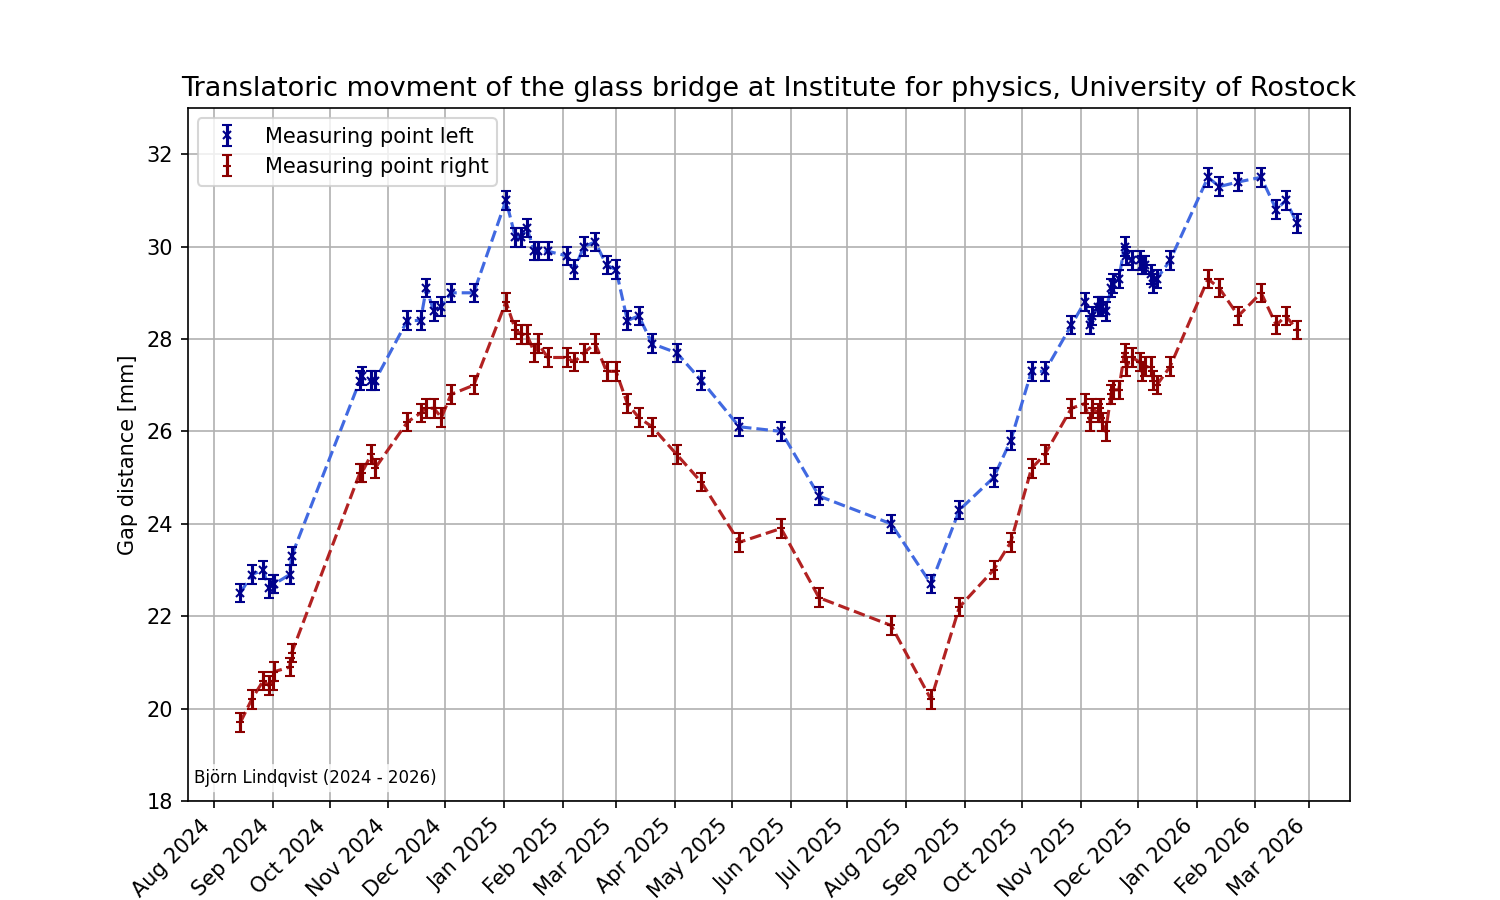
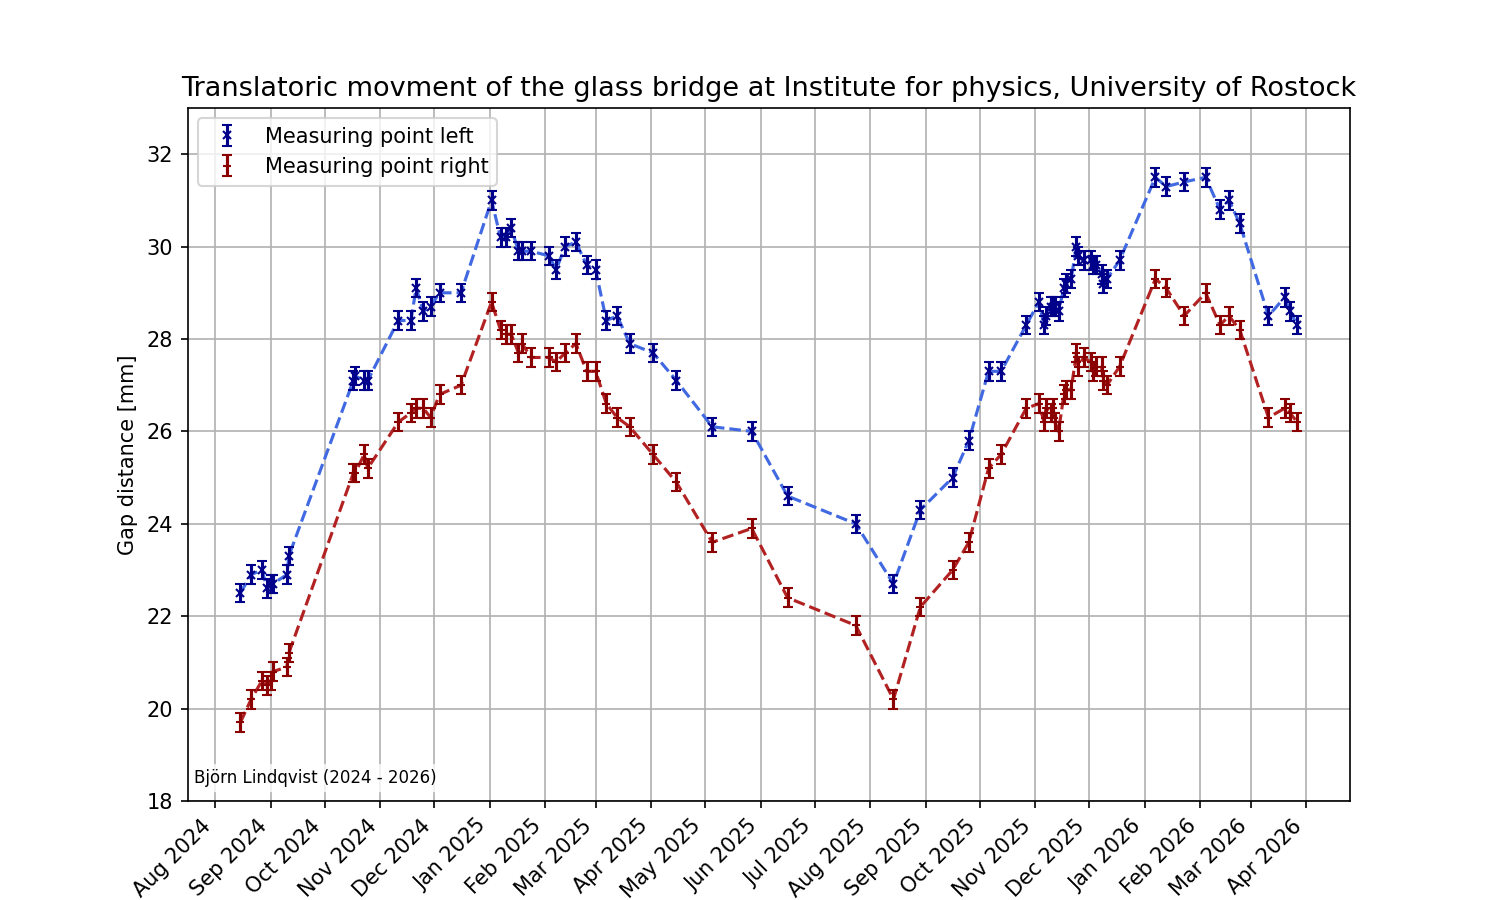
new data and code modifications

Changed region(s): [[0.1533, 0.1867, 0.8893, 0.8089], [0.092, 0.9022, 0.8893, 0.9956], [0.1533, 0.7467, 0.184, 0.8089]]

diff --git a/Glasbruecke_Spalt_Main/Glasbruecke_main_code_modified.py b/Glasbruecke_Spalt_Main/Glasbruecke_main_code_modified.py
@@ -1,0 +1,65 @@
+"""
+Main file zum Plotten der Spaltmessungen
+Version: Vortlaufende Daten
+Autor: Björn Lindqvist
+Lizenz: CC-BY
+"""
+
+import pandas as pd
+import os
+import plot_functions as fun
+import modify_functions as mod_fun
+
+file_path_raw = 'Glasbruecke_data.xlsx'
+file_path_modified = mod_fun.data_modifier(file_path_raw)
+
+df = pd.read_excel(file_path_modified)
+
+Dates = df['Date']
+Days = (df['Date'] - df['Date'][0]).dt.days.to_numpy()
+T1 = df['T1/°C'].to_numpy()
+T2 = df['T2/°C'].to_numpy()
+D1 = df['D1/mm'].to_numpy()
+D2 = df['D2/mm'].to_numpy()
+delta_T = df['dT_i/K'].to_numpy()
+delta_D = df['dD_i/mm'].to_numpy()
+
+
+year_start = '2024' #only text
+year_end = '2026' #only text
+time_style = 'time' #time (days) or Date (date)
+
+if time_style == 'days':
+    time = Days
+    xlabel = 'Days since first measurement on 15.08.2024'
+elif time_style == 'time':
+    time = Dates 
+    xlabel = 'Date'
+else:
+    print('Wrong time_key!')
+    
+folder = 'figures'
+os.makedirs(folder, exist_ok=True)
+
+
+#%% movment over the year
+print('INFO: plot time-gap')
+fun.plot_time_gap(folder, time, D1, D2, delta_D, xlabel, year_start=year_start, year_end=year_end, time_style=time_style)
+
+#%% sheerment over the year
+print('INFO: plot time-sheer')
+fun.plot_sheer(folder, time, D1, D2, delta_D, xlabel, year_start=year_start, year_end=year_end, time_style=time_style)
+
+#%% temperature plot
+print('INFO: plot temp-gap')
+fun.plot_temperature_movement(folder, D1, T1, D2, T2, delta_D, delta_T, year_start=year_start, year_end=year_end)
+
+print('Exitcode 0')
+
+
+
+
+
+
+
+

diff --git a/Glasbruecke_Spalt_Main/modify_functions.py b/Glasbruecke_Spalt_Main/modify_functions.py
@@ -1,0 +1,51 @@
+"""
+Hilfsfunktion um Daten aufzubereiten
+Version: Vortlaufende Daten
+Autor: Björn Lindqvist
+Lizenz: CC-BY
+"""
+
+import pandas as pd 
+import correction_functions as corr_fun
+import numpy as np
+
+def temperatur_correction(file_path, plot_tick=False):
+    def single_temp_corr(df_tab1, df_tab2, df_tab2_red, T_fit, T_value):
+        fit_T = corr_fun.linear_fit(df_tab2_red[f'T{T_value}_old'], df_tab2_red[f'T{T_value}_new'], T_fit)
+        T = df_tab1[f'T{T_value}/°C'].to_numpy()
+        T_new_fitted = df_tab2[f'T{T_value}_new'] #take new data
+        T_new_fitted[0:49] = fit_T['slope']*T[0:49] + fit_T['intercept'] #correct wrong data
+        return fit_T, T_new_fitted
+    
+    
+    df_tab1 = pd.read_excel(file_path, 'Tabelle1')
+    df_tab2 = pd.read_excel(file_path, 'Tabelle2')
+    df_tab2_red = corr_fun.delete_nans(df_tab2)
+
+    T_fit = np.linspace(10, 35, 1000)
+    fit_T1, T1_new_fitted = single_temp_corr(df_tab1, df_tab2, df_tab2_red, T_fit, T_value='1')
+    fit_T2, T2_new_fitted = single_temp_corr(df_tab1, df_tab2, df_tab2_red, T_fit, T_value='2')
+    
+    if plot_tick: corr_fun.plot_correction(df_tab2_red, fit_T1, fit_T2, T_fit)
+
+    return T1_new_fitted, T2_new_fitted
+
+
+def data_modifier(file_path_raw):
+    df = pd.read_excel(file_path_raw)
+    # creat copy of raw data excel 
+    
+    
+    T1_new, T2_new = temperatur_correction(file_path_raw, plot_tick=False)
+        
+
+    
+
+    return file_path_raw
+
+
+
+
+
+
+

diff --git a/Glasbruecke_Spalt_Main/correction_functions.py b/Glasbruecke_Spalt_Main/correction_functions.py
@@ -2,6 +2,12 @@ import numpy as np
 import matplotlib.pyplot as plt
 from scipy import stats
 
+def delete_nans(df):
+    df_cleand = df.dropna(how='any')
+    return df_cleand
+
+
+
 def linear_fit(x, y, x_fit):
     x = np.asarray(x)
     y = np.asarray(y)
@@ -35,9 +41,9 @@ def plot_correction(df, fit1, fit2, x_ref):
         label=f'Fit T2: f(x)={fit2["slope"]:.2f}x+{fit2["intercept"]:.2f}'
     )
     plt.plot(x_ref, x_ref, linestyle='--', color='black', linewidth=1, label='ideal behavior: f(x)=x')
-    plt.xlim([10, 22])
+    # plt.xlim([10, 25])
     plt.xlabel('Old temperature [°C]')
-    plt.xlabel('Corrected temperature [°C]')
+    plt.ylabel('Corrected temperature [°C]')
     plt.title('Correction fit for FLIR/temperature measurement')
     plt.legend()
     plt.show()

diff --git a/Glasbruecke_Spalt_Main/Korrekturanalyse.py b/Glasbruecke_Spalt_Main/Korrekturanalyse.py
@@ -12,8 +12,9 @@ import correction_functions as corr_fun
 
 file_path = 'Glasbruecke_data.xlsx'
 df = pd.read_excel(file_path, 'Tabelle2')
+df = corr_fun.delete_nans(df)
 
-T_fit = np.linspace(10, 25, 1000)
+T_fit = np.linspace(10, 35, 1000)
 
 fit_T1 = corr_fun.linear_fit(df['T1_old'], df['T1_new'], T_fit)
 fit_T2 = corr_fun.linear_fit(df['T2_old'], df['T2_new'], T_fit)

diff --git a/Glasbruecke_Spalt_Main/Glasbruecke_main_code.py b/Glasbruecke_Spalt_Main/Glasbruecke_main_code.py
@@ -24,7 +24,7 @@ delta_D = df['dD_i/mm'].to_numpy()
 
 year_start = '2024' #only text
 year_end = '2026' #only text
-time_style = 'time' #time (#days) or Date (date)
+time_style = 'time' #time (days) or Date (date)
 
 if time_style == 'days':
     time = Days
